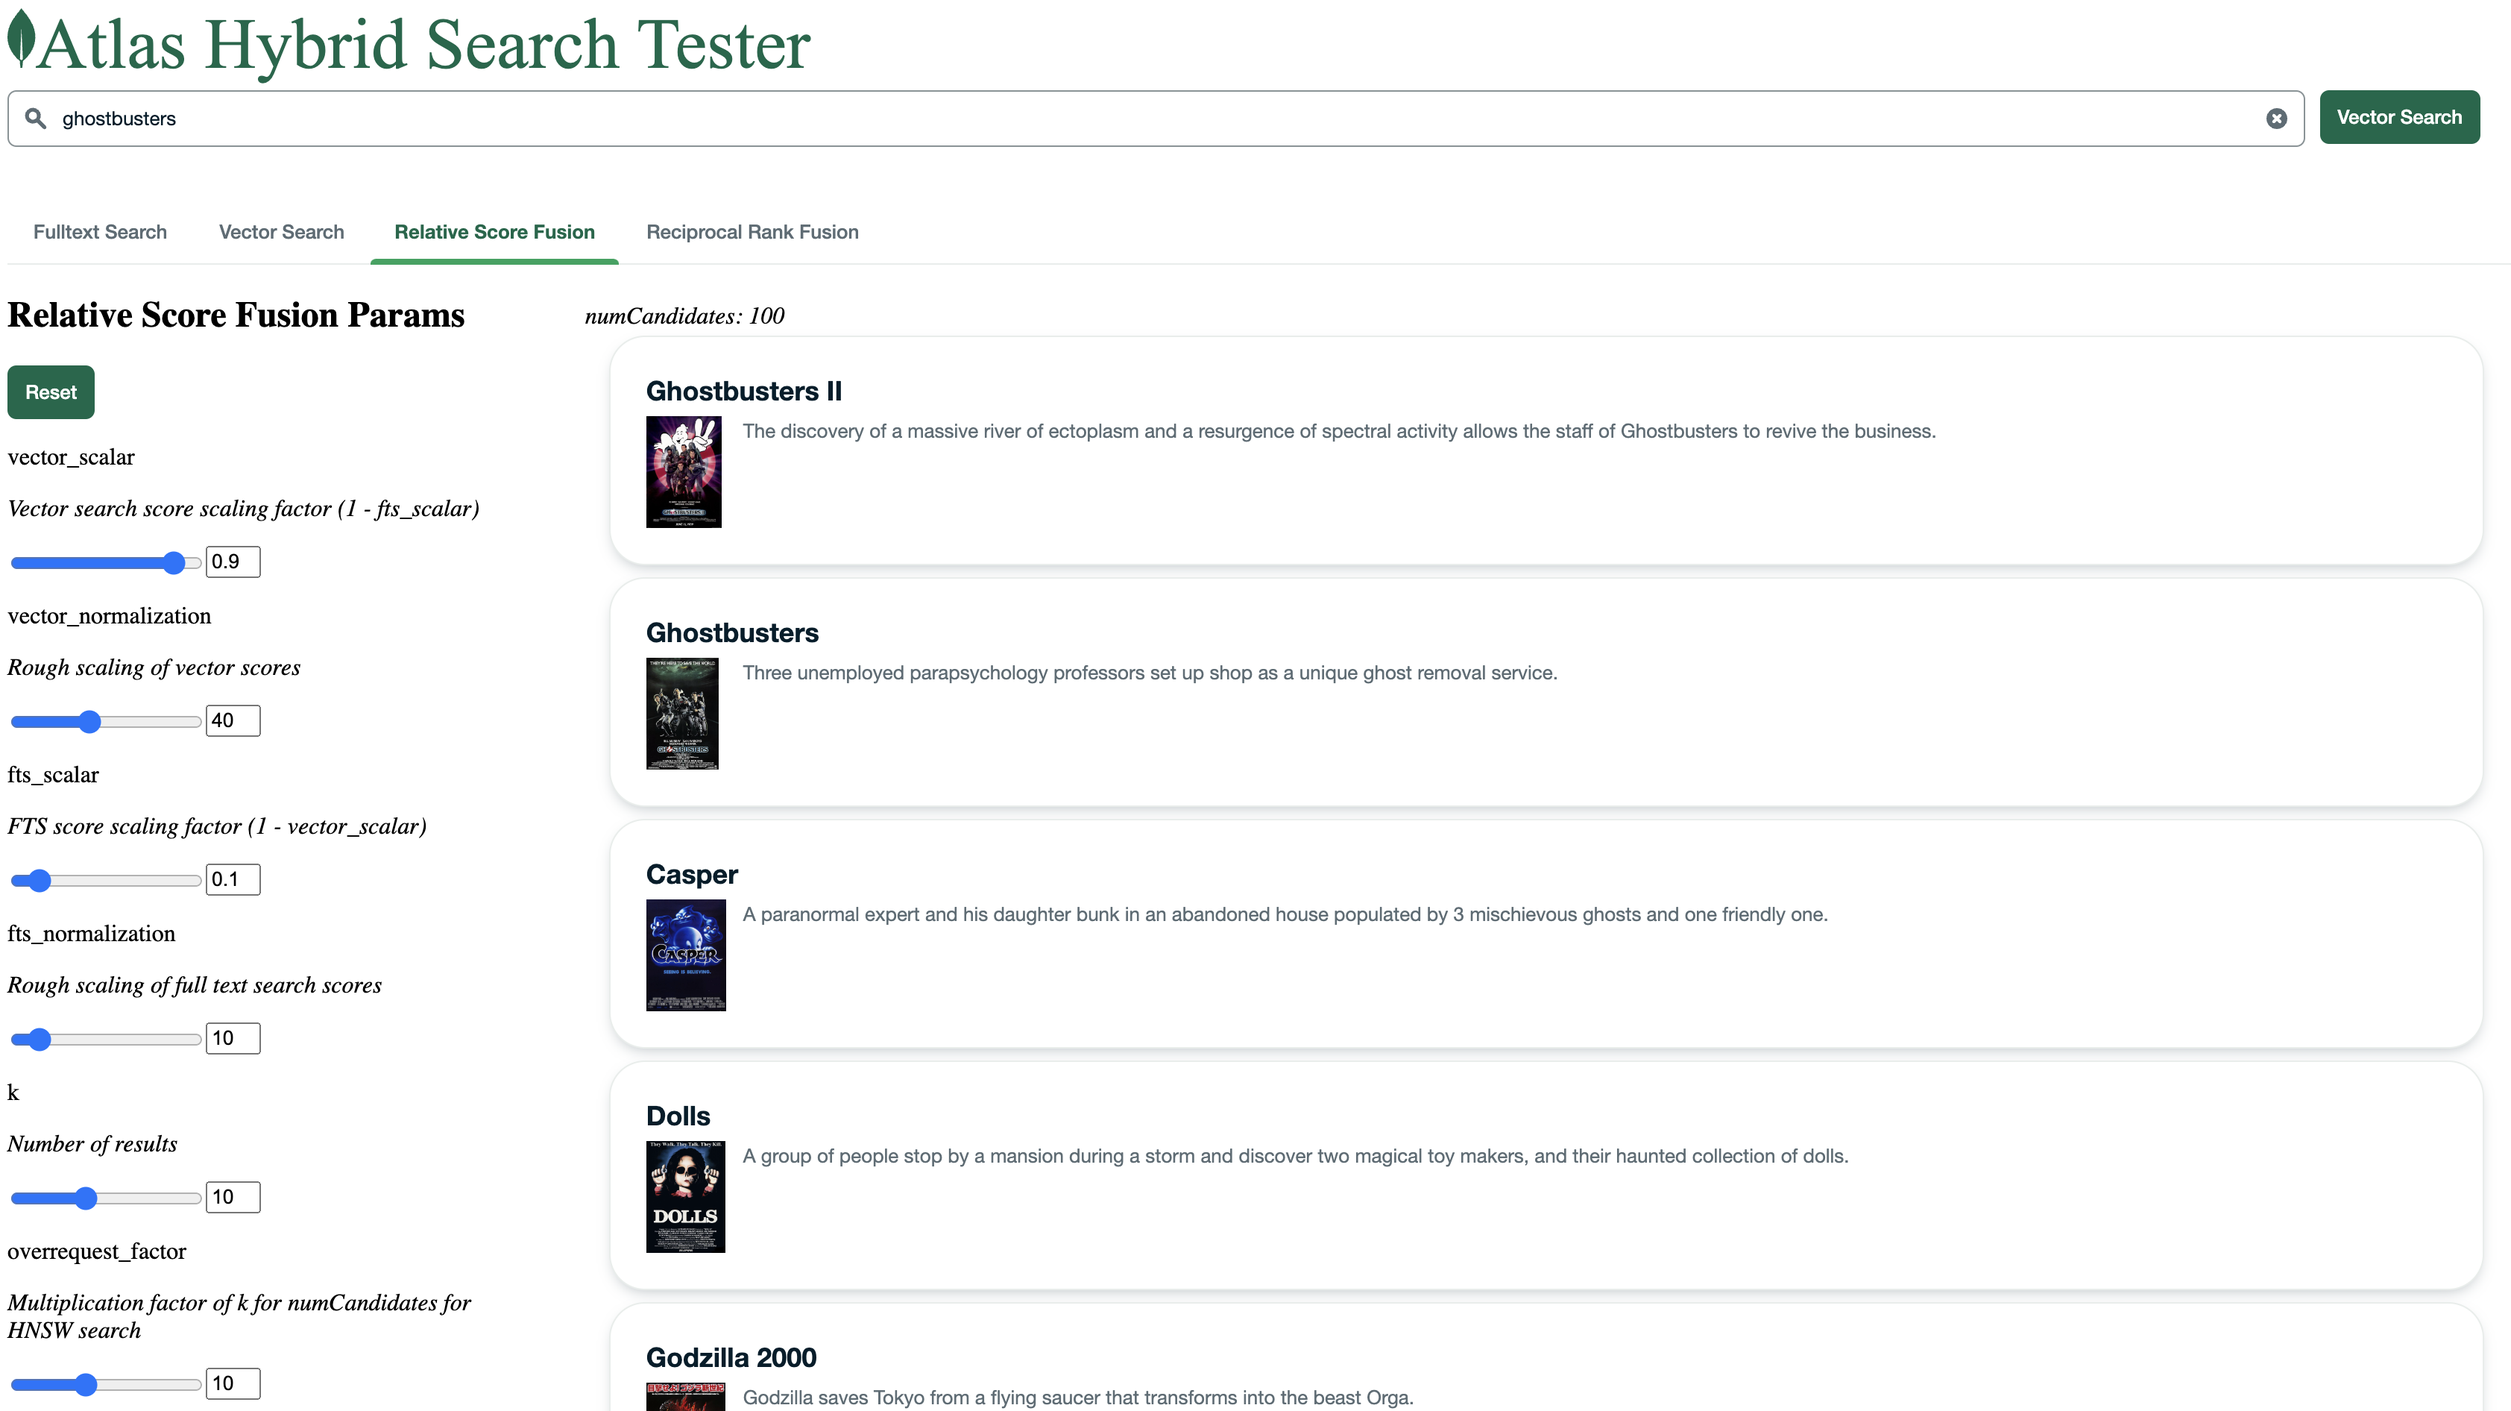
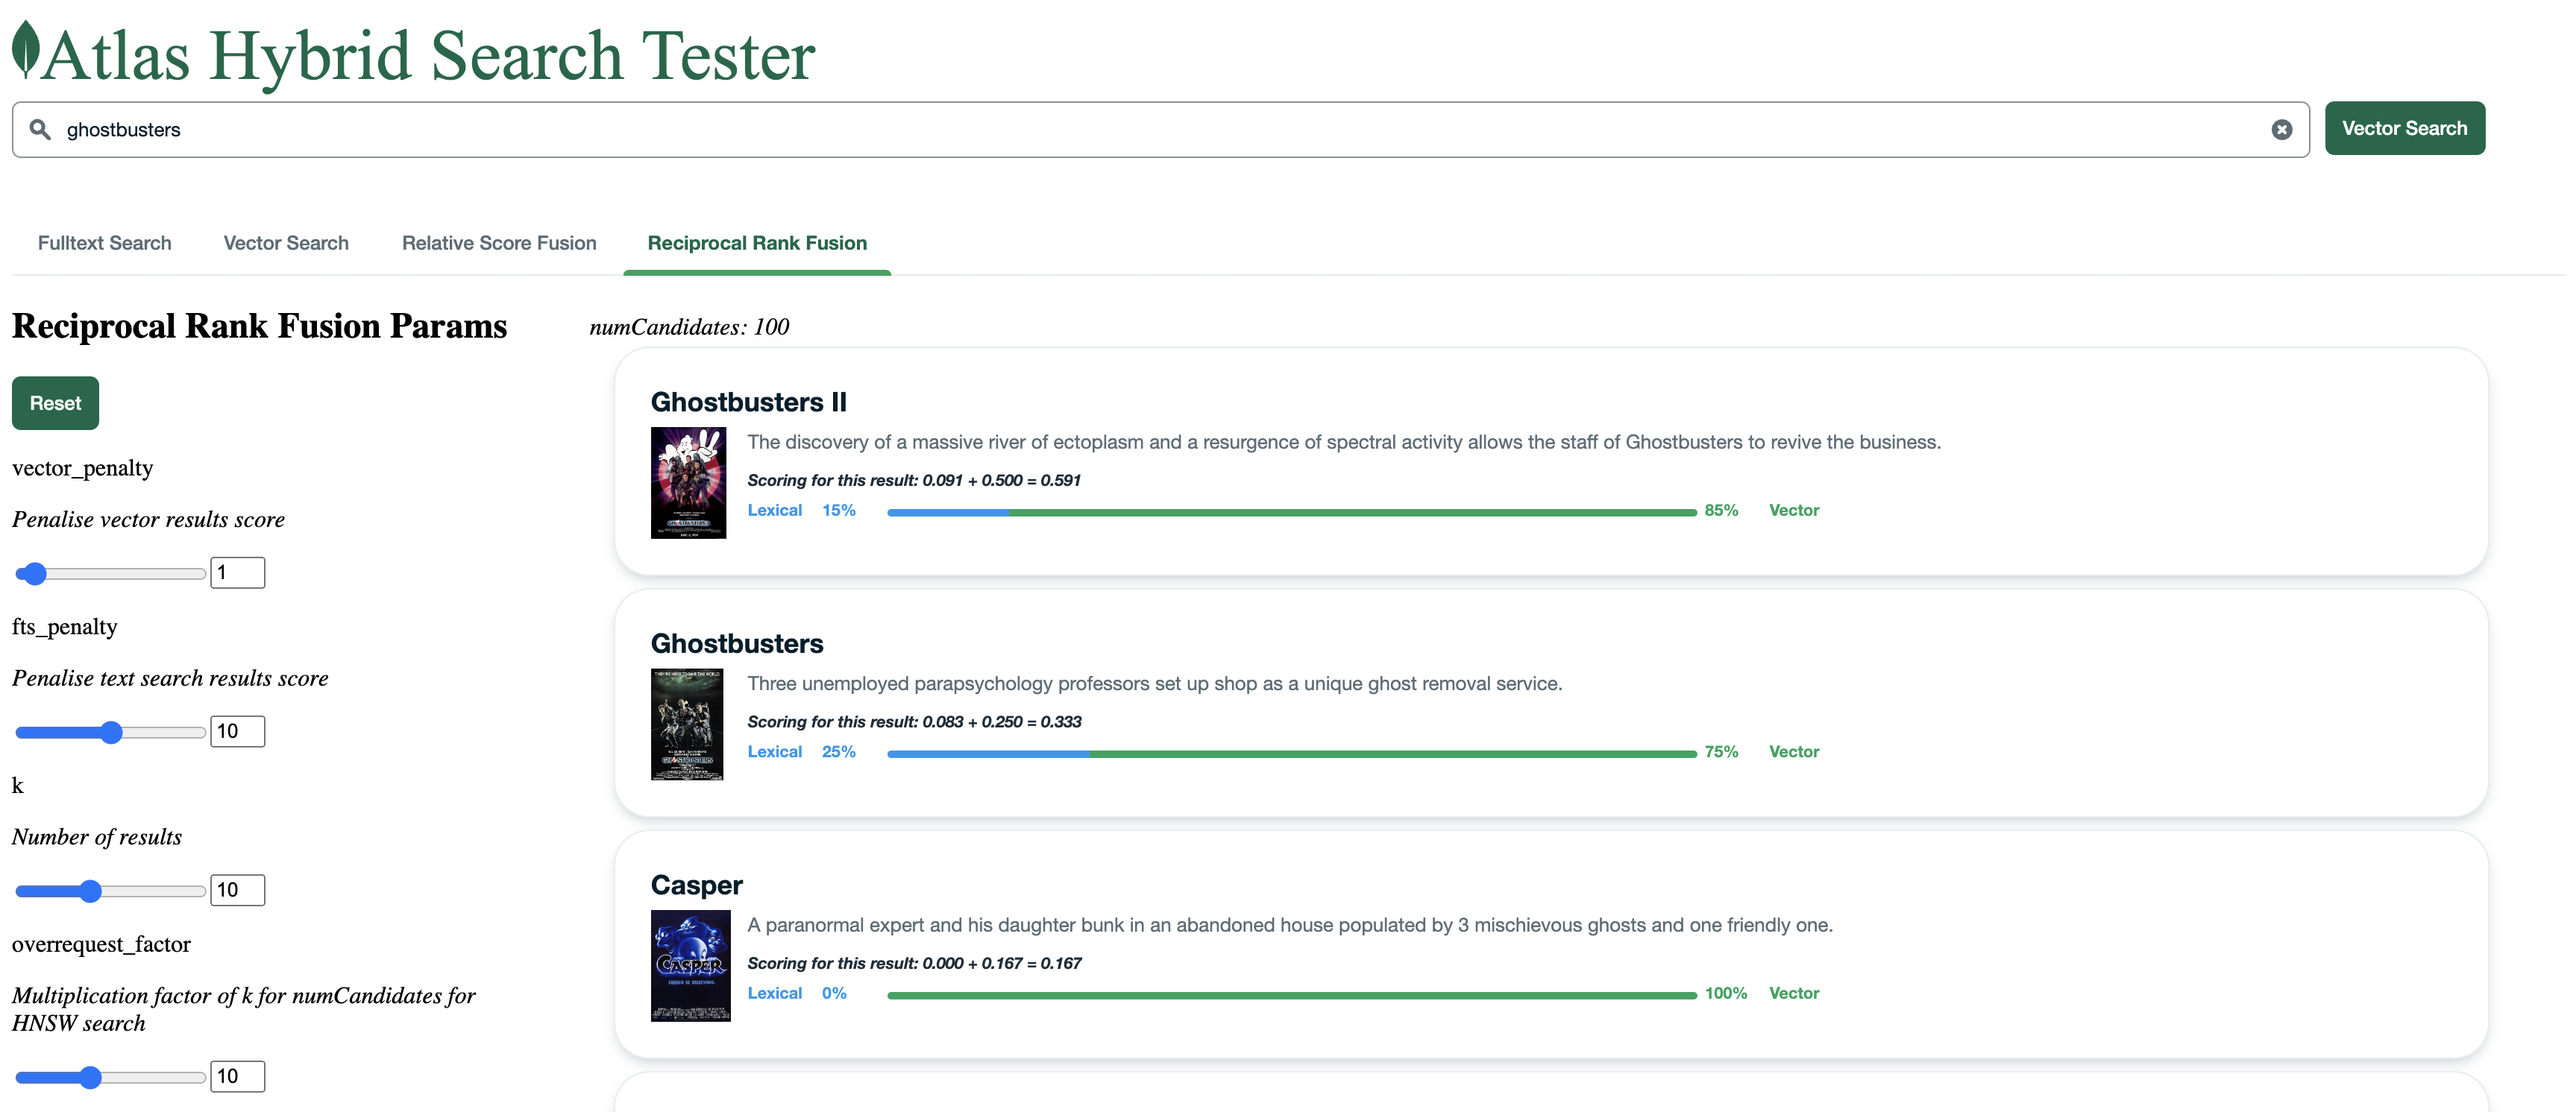
Update scoring style and screenshots

diff --git a/components/hybrid-score.js b/components/hybrid-score.js
@@ -3,16 +3,44 @@ import { palette } from '@leafygreen-ui/palette';
 function HybridScore({result}) {
     return (
         <div style={{paddingTop:"5px"}}>
-            <em style={{fontSize:"smaller"}}>Scoring for this result:</em>
+            <em style={{fontSize:"smaller"}}>Scoring for this result: {`${result.fts_score.toFixed(3)} + ${result.vs_score.toFixed(3)} = ${result.score.toFixed(3)}`}</em>
             <div key={`${result._id}scores`} style={{display:"grid",gridTemplateColumns:"45px 4lvh 50% 4lvh 45px",gap:"5px",alignItems:"start"}}>
-                <div style={{color:palette.gray.base, fontSize:"smaller"}}>Lexical</div>
-                <span>{`${Math.round((result.fts_score/result.score)*100)}%`}</span>
+                <div style={{color:palette.blue.light1, fontSize:"smaller"}}>Lexical</div>
+                <span style={{color:palette.blue.light1, fontSize:"smaller"}}>{`${Math.round((result.fts_score/result.score)*100)}%`}</span>
                 <div>
-                    <span style={{display:"inline-block", borderTopLeftRadius:"5px", borderBottomLeftRadius:"5px", height:"5px", backgroundColor:palette.gray.base, width:`${Math.round((result.fts_score/result.score)*100)}%`}}></span>
-                    <span style={{display:"inline-block", borderTopRightRadius:"5px", borderBottomRightRadius:"5px", height:"5px", backgroundColor:palette.green.dark3, width:`${Math.round((result.vs_score/result.score)*100)}%`}}></span>
+                    {result.fts_score == result.score ?
+                    <span style={{
+                        display:"inline-block",
+                        borderRadius:"5px",
+                        height:"5px",
+                        backgroundColor:palette.blue.light1,
+                        width:`${Math.round((result.fts_score/result.score)*100)}%`}}></span>
+                    :<span style={{
+                        display:"inline-block",
+                        borderTopLeftRadius:"5px",
+                        borderBottomLeftRadius:"5px",
+                        height:"5px",
+                        backgroundColor:palette.blue.light1,
+                        width:`${Math.round((result.fts_score/result.score)*100)}%`}}></span>}
+                    
+                    {result.vs_score == result.score ?
+                    <span style={{
+                        display:"inline-block",
+                        borderRadius:"5px",
+                        height:"5px",
+                        backgroundColor:palette.green.dark1,
+                        width:`${Math.round((result.vs_score/result.score)*100)}%`}}></span>
+                    :<span style={{
+                        display:"inline-block",
+                        borderTopRightRadius:"5px",
+                        borderBottomRightRadius:"5px",
+                        height:"5px",
+                        backgroundColor:palette.green.dark1,
+                        width:`${Math.round((result.vs_score/result.score)*100)}%`}}></span>
+                    }
                 </div>
-                <span>{`${Math.round((result.vs_score/result.score)*100)}%`}</span>
-                <div style={{color:palette.green.dark3, fontSize:"smaller"}}>Vector</div>
+                <span style={{color:palette.green.dark1, fontSize:"smaller"}}>{`${Math.round((result.vs_score/result.score)*100)}%`}</span>
+                <div style={{color:palette.green.dark1, fontSize:"smaller"}}>Vector</div>
             </div>
         </div>
     )
